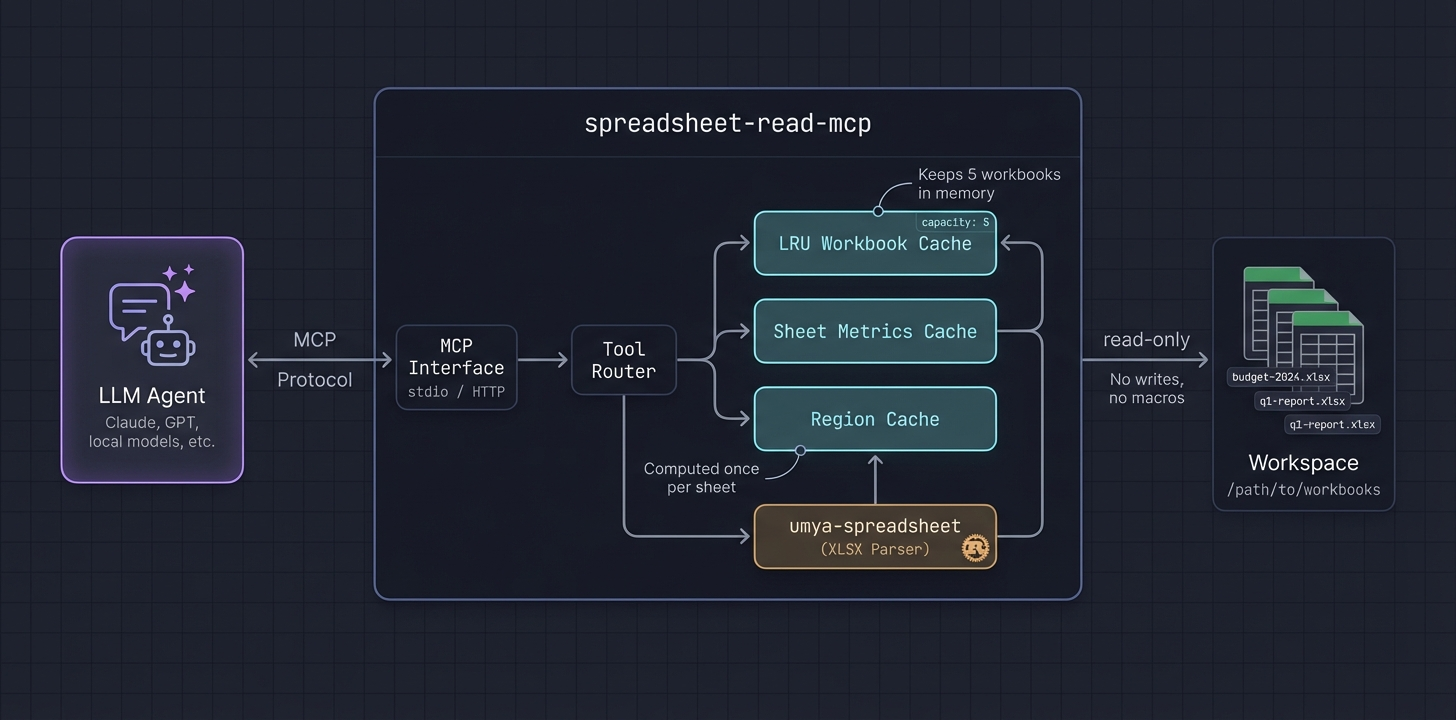
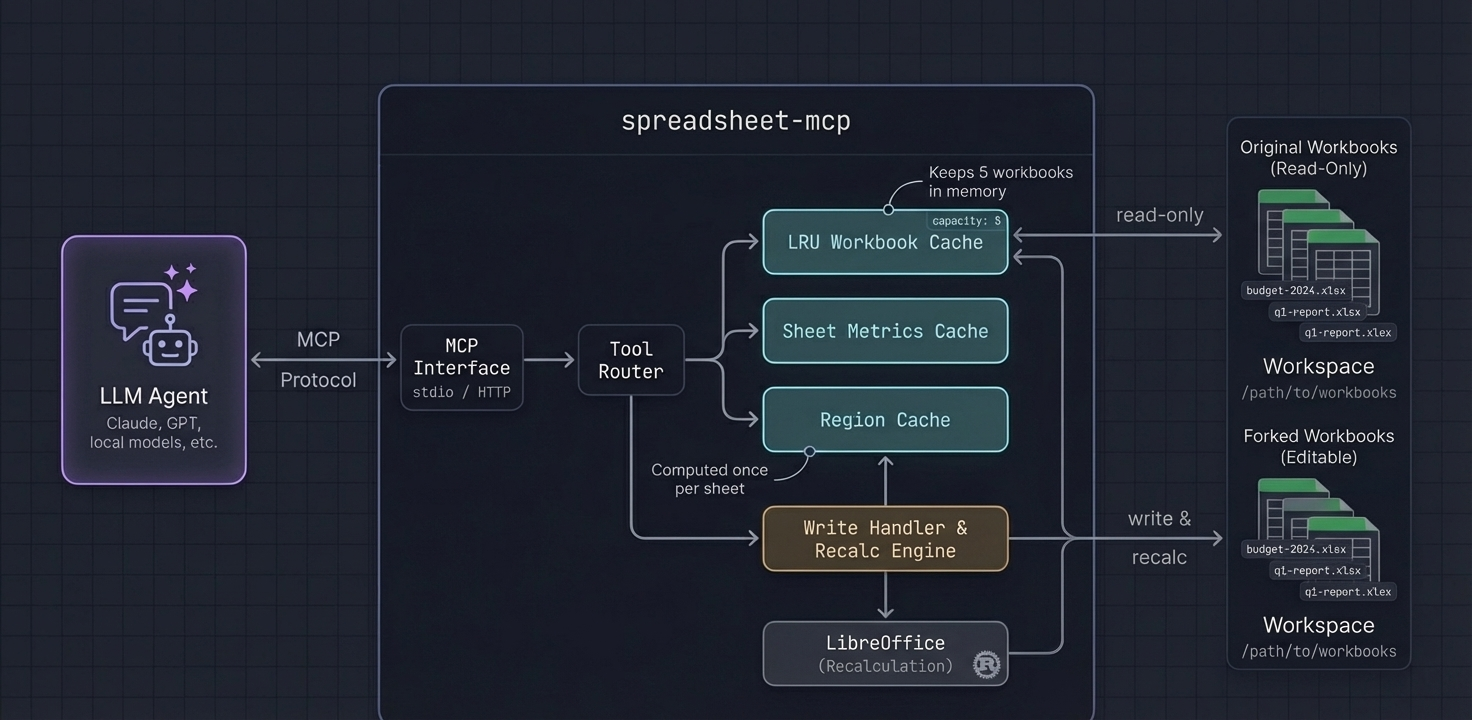
Update README, CI, images

diff --git a/src/server.rs b/src/server.rs
@@ -19,8 +19,8 @@ use rmcp::{
 use std::sync::Arc;
 use thiserror::Error;
 
-const SERVER_INSTRUCTIONS: &str = "\
-Spreadsheet Read MCP: optimized for read-only spreadsheet analysis.
+const BASE_INSTRUCTIONS: &str = "\
+Spreadsheet MCP: optimized for spreadsheet analysis.
 
 WORKFLOW:
 1) list_workbooks → list_sheets → workbook_summary for orientation
@@ -41,7 +41,49 @@ Use direction='right' or 'below' hints.
 
 DATES: Cells with date formats return ISO-8601 strings (YYYY-MM-DD).
 
-Keep payloads small. Page through large sheets. Read-only, no mutations.";
+Keep payloads small. Page through large sheets.";
+
+const WRITE_INSTRUCTIONS: &str = "
+
+WRITE/RECALC TOOLS (enabled):
+Fork-based editing allows 'what-if' analysis without modifying original files.
+
+WORKFLOW:
+1) create_fork: Create editable copy of a workbook. Returns fork_id.
+2) edit_batch: Apply cell changes (values or formulas) to the fork.
+3) recalculate: Trigger LibreOffice to recompute all formulas.
+4) get_changeset: Diff fork against original. Shows cell/table/name changes.
+5) save_fork: Write changes to file (overwrite original or new path).
+6) discard_fork: Delete fork without saving.
+
+TOOL DETAILS:
+- create_fork: Only .xlsx supported. Returns fork_id for subsequent operations.
+- edit_batch: Accepts array of {sheet, cell, value} or {sheet, cell, formula}. \
+Formulas should NOT include leading '='.
+- recalculate: Required after edit_batch to update formula results. \
+May take several seconds for complex workbooks.
+- get_changeset: Returns cell-level diffs with modification types: \
+ValueEdit, FormulaEdit, RecalcResult, Added, Deleted. \
+Use sheet_name param to filter to specific sheet.
+- save_fork: Use output_path for new file, omit to overwrite original. \
+Validates base file unchanged since fork creation.
+- list_forks: See all active forks for a workbook.
+
+BEST PRACTICES:
+- Always recalculate after edit_batch before get_changeset.
+- Review changeset before save_fork to verify expected changes.
+- Discard forks when done to free resources (auto-cleanup after 1 hour).
+- For large edits, batch multiple cells in single edit_batch call.";
+
+fn build_instructions(recalc_enabled: bool) -> String {
+    let mut instructions = BASE_INSTRUCTIONS.to_string();
+    if recalc_enabled {
+        instructions.push_str(WRITE_INSTRUCTIONS);
+    } else {
+        instructions.push_str("\n\nRead-only mode. Write/recalc tools disabled.");
+    }
+    instructions
+}
 
 #[derive(Clone)]
 pub struct SpreadsheetServer {
@@ -510,10 +552,21 @@ impl SpreadsheetServer {
 #[tool_handler(router = self.tool_router)]
 impl ServerHandler for SpreadsheetServer {
     fn get_info(&self) -> ServerInfo {
+        let recalc_enabled = {
+            #[cfg(feature = "recalc")]
+            {
+                self.state.config().recalc_enabled
+            }
+            #[cfg(not(feature = "recalc"))]
+            {
+                false
+            }
+        };
+
         ServerInfo {
             capabilities: ServerCapabilities::builder().enable_tools().build(),
             server_info: Implementation::from_build_env(),
-            instructions: Some(SERVER_INSTRUCTIONS.to_string()),
+            instructions: Some(build_instructions(recalc_enabled)),
             ..ServerInfo::default()
         }
     }

diff --git a/tests/support/docker.rs b/tests/support/docker.rs
@@ -7,7 +7,7 @@ use std::process::Stdio;
 use tokio::process::Command;
 
 const IMAGE_HASH: &str = include_str!("../../docker/image.hash");
-const IMAGE_NAME: &str = "gridbench-full";
+const IMAGE_NAME: &str = "spreadsheet-mcp-full";
 
 pub fn image_tag() -> String {
     let hash = IMAGE_HASH.trim();

diff --git a/README.md b/README.md
@@ -4,7 +4,7 @@
 [![Documentation](https://docs.rs/spreadsheet-mcp/badge.svg)](https://docs.rs/spreadsheet-mcp)
 [![License](https://img.shields.io/crates/l/spreadsheet-mcp.svg)](https://github.com/PSU3D0/spreadsheet-mcp/blob/main/LICENSE)
 
-![Spreadsheet MCP](assets/banner.jpeg)
+![Spreadsheet MCP](https://raw.githubusercontent.com/PSU3D0/spreadsheet-mcp/main/assets/banner.jpeg)
 
 MCP server for spreadsheet analysis and editing. Slim, token-efficient tool surface designed for LLM agents.
 
@@ -17,7 +17,7 @@ Dumping a 50,000-row spreadsheet into an LLM context is expensive and usually un
 
 ## Architecture
 
-![Architecture Overview](assets/architecture_overview.jpeg)
+![Architecture Overview](https://raw.githubusercontent.com/PSU3D0/spreadsheet-mcp/main/assets/architecture_overview.jpeg)
 
 - **LRU cache** keeps recently-accessed workbooks in memory (configurable capacity)
 - **Lazy sheet metrics** computed once per sheet, reused across tools
@@ -37,9 +37,26 @@ Dumping a 50,000-row spreadsheet into an LLM context is expensive and usually un
 | `sheet_page` | Fallback pagination; supports `compact`/`values_only` |
 | `formula_trace` | Precedents/dependents with paging |
 
-## Write & Recalc Support (Experimental)
+## Write & Recalc Support
 
-Enabled via `SPREADSHEET_MCP_RECALC_ENABLED=true` (requires `spreadsheet-mcp:full` image).
+Write tools allow "what-if" analysis: fork a workbook, edit cells, recalculate formulas via LibreOffice, and diff the results.
+
+### Enabling Write Tools
+
+Use the `:full` Docker image (write tools enabled by default):
+```bash
+docker run -v /path/to/workbooks:/data -p 8079:8079 ghcr.io/psu3d0/spreadsheet-mcp:full
+```
+
+Or with a binary build:
+```bash
+cargo install spreadsheet-mcp --features recalc
+spreadsheet-mcp --workspace-root /path/to/workbooks --recalc-enabled
+```
+
+**Note:** Recalculation requires LibreOffice installed on the host when not using the `:full` Docker image.
+
+### Write Tools
 
 | Tool | Purpose |
 | --- | --- |
@@ -88,7 +105,7 @@ The agent now knows column types, cardinality, and value distributions—without
 
 ## Recommended Agent Workflow
 
-![Token Efficiency Workflow](assets/token_efficiency.jpeg)
+![Token Efficiency Workflow](https://raw.githubusercontent.com/PSU3D0/spreadsheet-mcp/main/assets/token_efficiency.jpeg)
 
 1. `list_workbooks` → `list_sheets` → `workbook_summary` for orientation
 2. `sheet_overview` to get `detected_regions` (ids/bounds/kind/confidence)
@@ -99,7 +116,7 @@ The agent now knows column types, cardinality, and value distributions—without
 
 ## Region Detection
 
-![Region Detection Visualization](assets/region_detection_viz.jpeg)
+![Region Detection Visualization](https://raw.githubusercontent.com/PSU3D0/spreadsheet-mcp/main/assets/region_detection_viz.jpeg)
 
 Spreadsheets often contain multiple logical tables, parameter blocks, and output areas on a single sheet. The server detects these automatically:
 
@@ -116,22 +133,34 @@ Regions are cached per sheet. Tools like `read_table` accept a `region_id` to sc
 
 ### Docker (Recommended)
 
-```bash
-docker run -v /path/to/workbooks:/data -p 8079:8079 ghcr.io/psu3d0/spreadsheet-mcp:latest
-```
+Two image variants are published:
 
-For stdio mode (e.g., Claude Code):
+| Image | Size | Write/Recalc |
+| --- | --- | --- |
+| `ghcr.io/psu3d0/spreadsheet-mcp:latest` | ~15MB | No |
+| `ghcr.io/psu3d0/spreadsheet-mcp:full` | ~800MB | Yes (includes LibreOffice) |
+
 ```bash
-docker run -i --rm -v /path/to/workbooks:/data ghcr.io/psu3d0/spreadsheet-mcp:latest \
-  --transport stdio
+# Read-only (slim image)
+docker run -v /path/to/workbooks:/data -p 8079:8079 ghcr.io/psu3d0/spreadsheet-mcp:latest
+
+# With write/recalc support (full image)
+docker run -v /path/to/workbooks:/data -p 8079:8079 ghcr.io/psu3d0/spreadsheet-mcp:full
 ```
 
 ### Cargo Install
 
 ```bash
+# Read-only
 cargo install spreadsheet-mcp
 spreadsheet-mcp --workspace-root /path/to/workbooks
+
+# With write/recalc support
+cargo install spreadsheet-mcp --features recalc
+spreadsheet-mcp --workspace-root /path/to/workbooks --recalc-enabled
 ```
+
+**Note:** The `--recalc-enabled` flag requires LibreOffice installed on the host.
 
 ### Build from Source
 
@@ -143,61 +172,13 @@ Default transport: HTTP streaming at `127.0.0.1:8079`. Endpoint: `POST /mcp`.
 
 Use `--transport stdio` for CLI pipelines.
 
-## Local Development Testing
-
-To test local changes without rebuilding Docker, point your MCP client directly at the cargo build:
-
-### Claude Code (Local Build)
-
-Add to `~/.claude.json` or project `.mcp.json`:
-```json
-{
-  "mcpServers": {
-    "spreadsheet": {
-      "command": "cargo",
-      "args": ["run", "--release", "--manifest-path", "/path/to/spreadsheet-mcp/Cargo.toml", "--", "--workspace-root", "/path/to/workbooks", "--transport", "stdio"]
-    }
-  }
-}
-```
-
-Or build once and run the binary directly:
-```bash
-cargo build --release
-```
-
-```json
-{
-  "mcpServers": {
-    "spreadsheet": {
-      "command": "/path/to/spreadsheet-mcp/target/release/spreadsheet-mcp",
-      "args": ["--workspace-root", "/path/to/workbooks", "--transport", "stdio"]
-    }
-  }
-}
-```
-
-### Cursor / VS Code (Local Build)
-
-In `.vscode/settings.json` or user settings:
-```json
-{
-  "mcp.servers": {
-    "spreadsheet": {
-      "command": "cargo",
-      "args": ["run", "--release", "--manifest-path", "/path/to/spreadsheet-mcp/Cargo.toml", "--", "--workspace-root", "${workspaceFolder}", "--transport", "stdio"]
-    }
-  }
-}
-```
-
-**Tip:** Use `cargo build --release` first, then point to the binary for faster startup.
-
 ## MCP Client Configuration
 
-### Claude Desktop (Docker)
+### Claude Code / Claude Desktop
 
-Add to `claude_desktop_config.json`:
+Add to `~/.claude.json` or project `.mcp.json`:
+
+**Read-only (slim image):**
 ```json
 {
   "mcpServers": {
@@ -209,8 +190,19 @@ Add to `claude_desktop_config.json`:
 }
 ```
 
-### Claude Desktop (Binary)
+**With write/recalc (full image):**
+```json
+{
+  "mcpServers": {
+    "spreadsheet": {
+      "command": "docker",
+      "args": ["run", "-i", "--rm", "-v", "/path/to/workbooks:/data", "ghcr.io/psu3d0/spreadsheet-mcp:full", "--transport", "stdio"]
+    }
+  }
+}
+```
 
+**Binary (no Docker):**
 ```json
 {
   "mcpServers": {
@@ -222,8 +214,9 @@ Add to `claude_desktop_config.json`:
 }
 ```
 
-### Cursor / VS Code (Docker)
+### Cursor / VS Code
 
+**Read-only (slim image):**
 ```json
 {
   "mcp.servers": {
@@ -235,8 +228,19 @@ Add to `claude_desktop_config.json`:
 }
 ```
 
-### Cursor / VS Code (Binary)
+**With write/recalc (full image):**
+```json
+{
+  "mcp.servers": {
+    "spreadsheet": {
+      "command": "docker",
+      "args": ["run", "-i", "--rm", "-v", "${workspaceFolder}:/data", "ghcr.io/psu3d0/spreadsheet-mcp:full", "--transport", "stdio"]
+    }
+  }
+}
+```
 
+**Binary (no Docker):**
 ```json
 {
   "mcp.servers": {
@@ -256,6 +260,26 @@ docker run -v /path/to/workbooks:/data -p 8079:8079 ghcr.io/psu3d0/spreadsheet-m
 
 Connect via `POST http://localhost:8079/mcp`.
 
+## Local Development
+
+To test local changes without rebuilding Docker:
+
+```bash
+cargo build --release
+```
+
+Then point your MCP client to the binary:
+```json
+{
+  "mcpServers": {
+    "spreadsheet": {
+      "command": "/path/to/spreadsheet-mcp/target/release/spreadsheet-mcp",
+      "args": ["--workspace-root", "/path/to/workbooks", "--transport", "stdio"]
+    }
+  }
+}
+```
+
 ## Configuration
 
 | Flag | Env | Description |
@@ -267,6 +291,8 @@ Connect via `POST http://localhost:8079/mcp`.
 | `--enabled-tools <list>` | `SPREADSHEET_MCP_ENABLED_TOOLS` | Whitelist exposed tools |
 | `--transport <http\|stdio>` | `SPREADSHEET_MCP_TRANSPORT` | Transport selection (default: http) |
 | `--http-bind <ADDR>` | `SPREADSHEET_MCP_HTTP_BIND` | Bind address (default: `127.0.0.1:8079`) |
+| `--recalc-enabled` | `SPREADSHEET_MCP_RECALC_ENABLED` | Enable write/recalc tools (default: false) |
+| `--max-concurrent-recalcs <N>` | `SPREADSHEET_MCP_MAX_CONCURRENT_RECALCS` | Parallel recalc limit (default: 2) |
 
 ## Performance
 
@@ -286,7 +312,7 @@ Covers: region detection, region-scoped tools, `read_table` edge cases (merged h
 
 ## Behavior & Limits
 
-- **Read-only by default**; write/recalc features require `SPREADSHEET_MCP_RECALC_ENABLED=true`
+- **Read-only by default**; write/recalc features require `--recalc-enabled` or the `:full` image
 - **XLSX supported for write**; `.xls`/`.xlsb` are read-only
 - Bounded in-memory cache honors `cache_capacity`
 - Prefer region-scoped reads and sampling for token/latency efficiency
